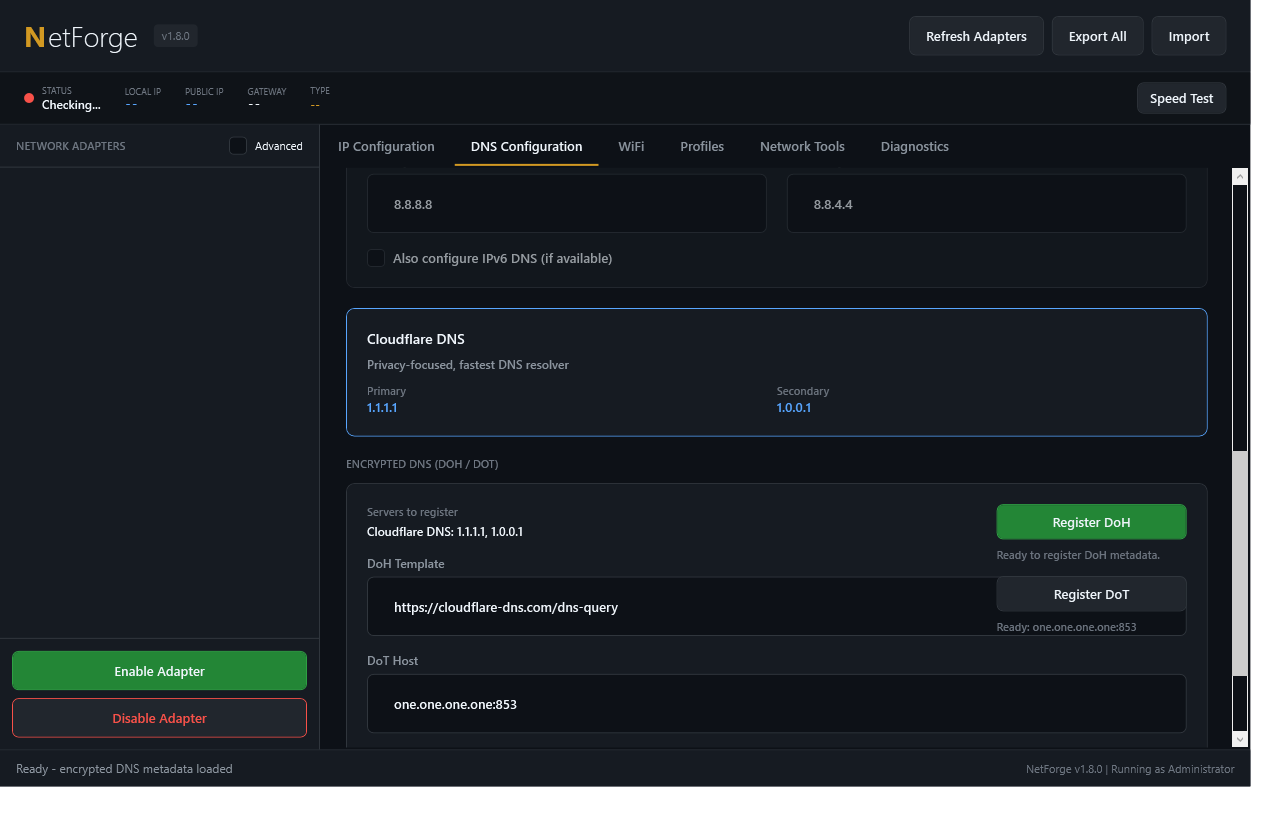
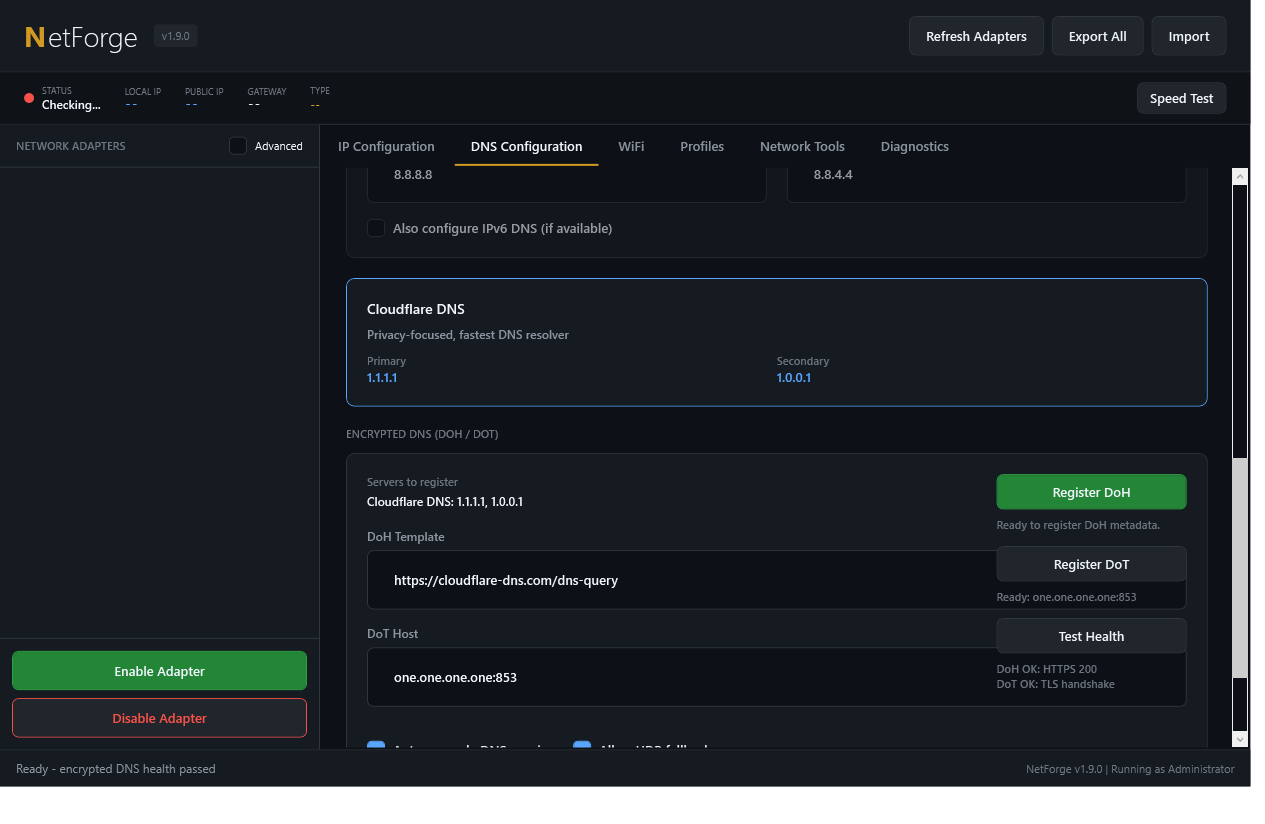
feat: add encrypted DNS health checks

diff --git a/README.md b/README.md
@@ -6,7 +6,7 @@
   <img src="https://img.shields.io/badge/Platform-Windows-0078D6?style=for-the-badge&logo=windows" alt="Windows"/>
   <img src="https://img.shields.io/badge/PowerShell-5.1+-5391FE?style=for-the-badge&logo=powershell&logoColor=white" alt="PowerShell"/>
   <img src="https://img.shields.io/badge/License-MIT-green?style=for-the-badge" alt="License"/>
-  <img src="https://img.shields.io/badge/Version-1.8.0-orange?style=for-the-badge" alt="Version"/>
+  <img src="https://img.shields.io/badge/Version-1.9.0-orange?style=for-the-badge" alt="Version"/>
 </p>
 
 <p align="center">
@@ -68,6 +68,7 @@
 - Windows DoH and DoT encryption registration through `netsh dns add encryption`
 - Preset DoH templates and DoT hosts for Google, Cloudflare, Quad9, and AdGuard
 - Custom DoH template and DoT host entry for account-specific providers
+- Encrypted DNS health test with DoH HTTPS and DoT TCP/TLS DNS-message probes
 - Search and filter DNS presets
 
 ### Profile System
@@ -163,6 +164,7 @@ irm https://raw.githubusercontent.com/SysAdminDoc/NetForge/main/NetForge.ps1 -Ou
    - Choose custom DNS and enter server addresses
    - Click "Apply DNS Configuration"
    - Click "Register DoH" or "Register DoT" to add Windows encrypted DNS metadata for compatible resolvers
+   - Click "Test Health" to validate encrypted DNS handshakes and DNS-message responses
 4. **Save as Profile** (optional):
    - Go to Profiles tab
    - Click "Create New Profile"
